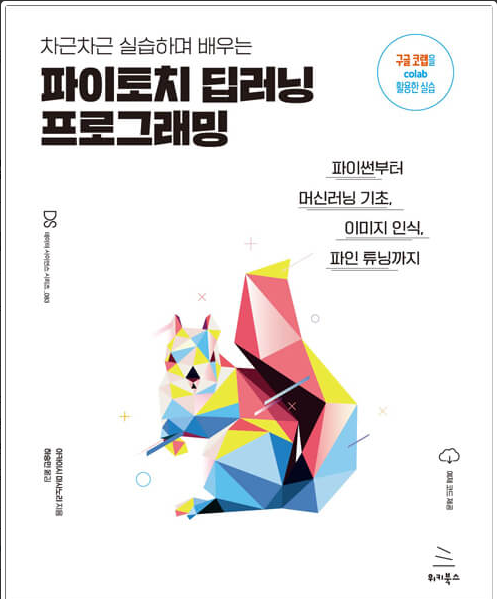
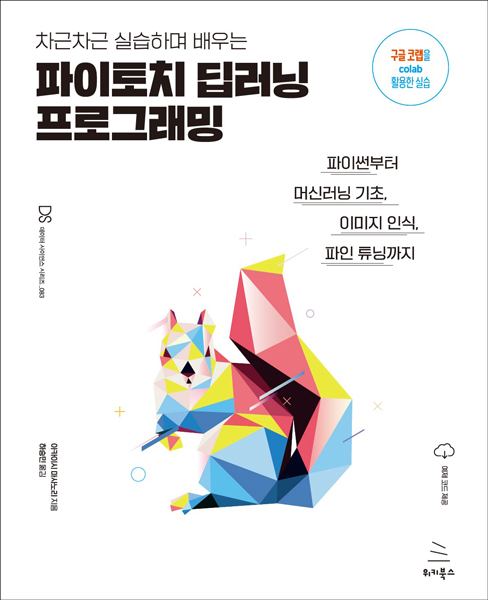
제목 및 표지 수정

diff --git a/README.md b/README.md
@@ -1,10 +1,10 @@
-# 「파이토치 딥러닝 프로그래밍 최단기 코스」
+# 「차근차근 실습하며 배우는 파이토치 딥러닝 프로그래밍」
 
 <div align="left">
 <img src="images/cover.png" width="200">
 </div>
 
-이 페이지는 "파이토치 딥러닝 프로그래밍 최단기 코스"의 리포지토리입니다.  
+이 페이지는 "차근차근 실습하며 배우는 파이토치 딥러닝 프로그래밍"의 리포지토리입니다.  
 
 ## 실습 Notebook 링크
 이 책의 모든 실습 코드는, Google Colab 에서 동작을 전제로 하며, Github(본 리포지토리)에 공개되어 있습니다.
